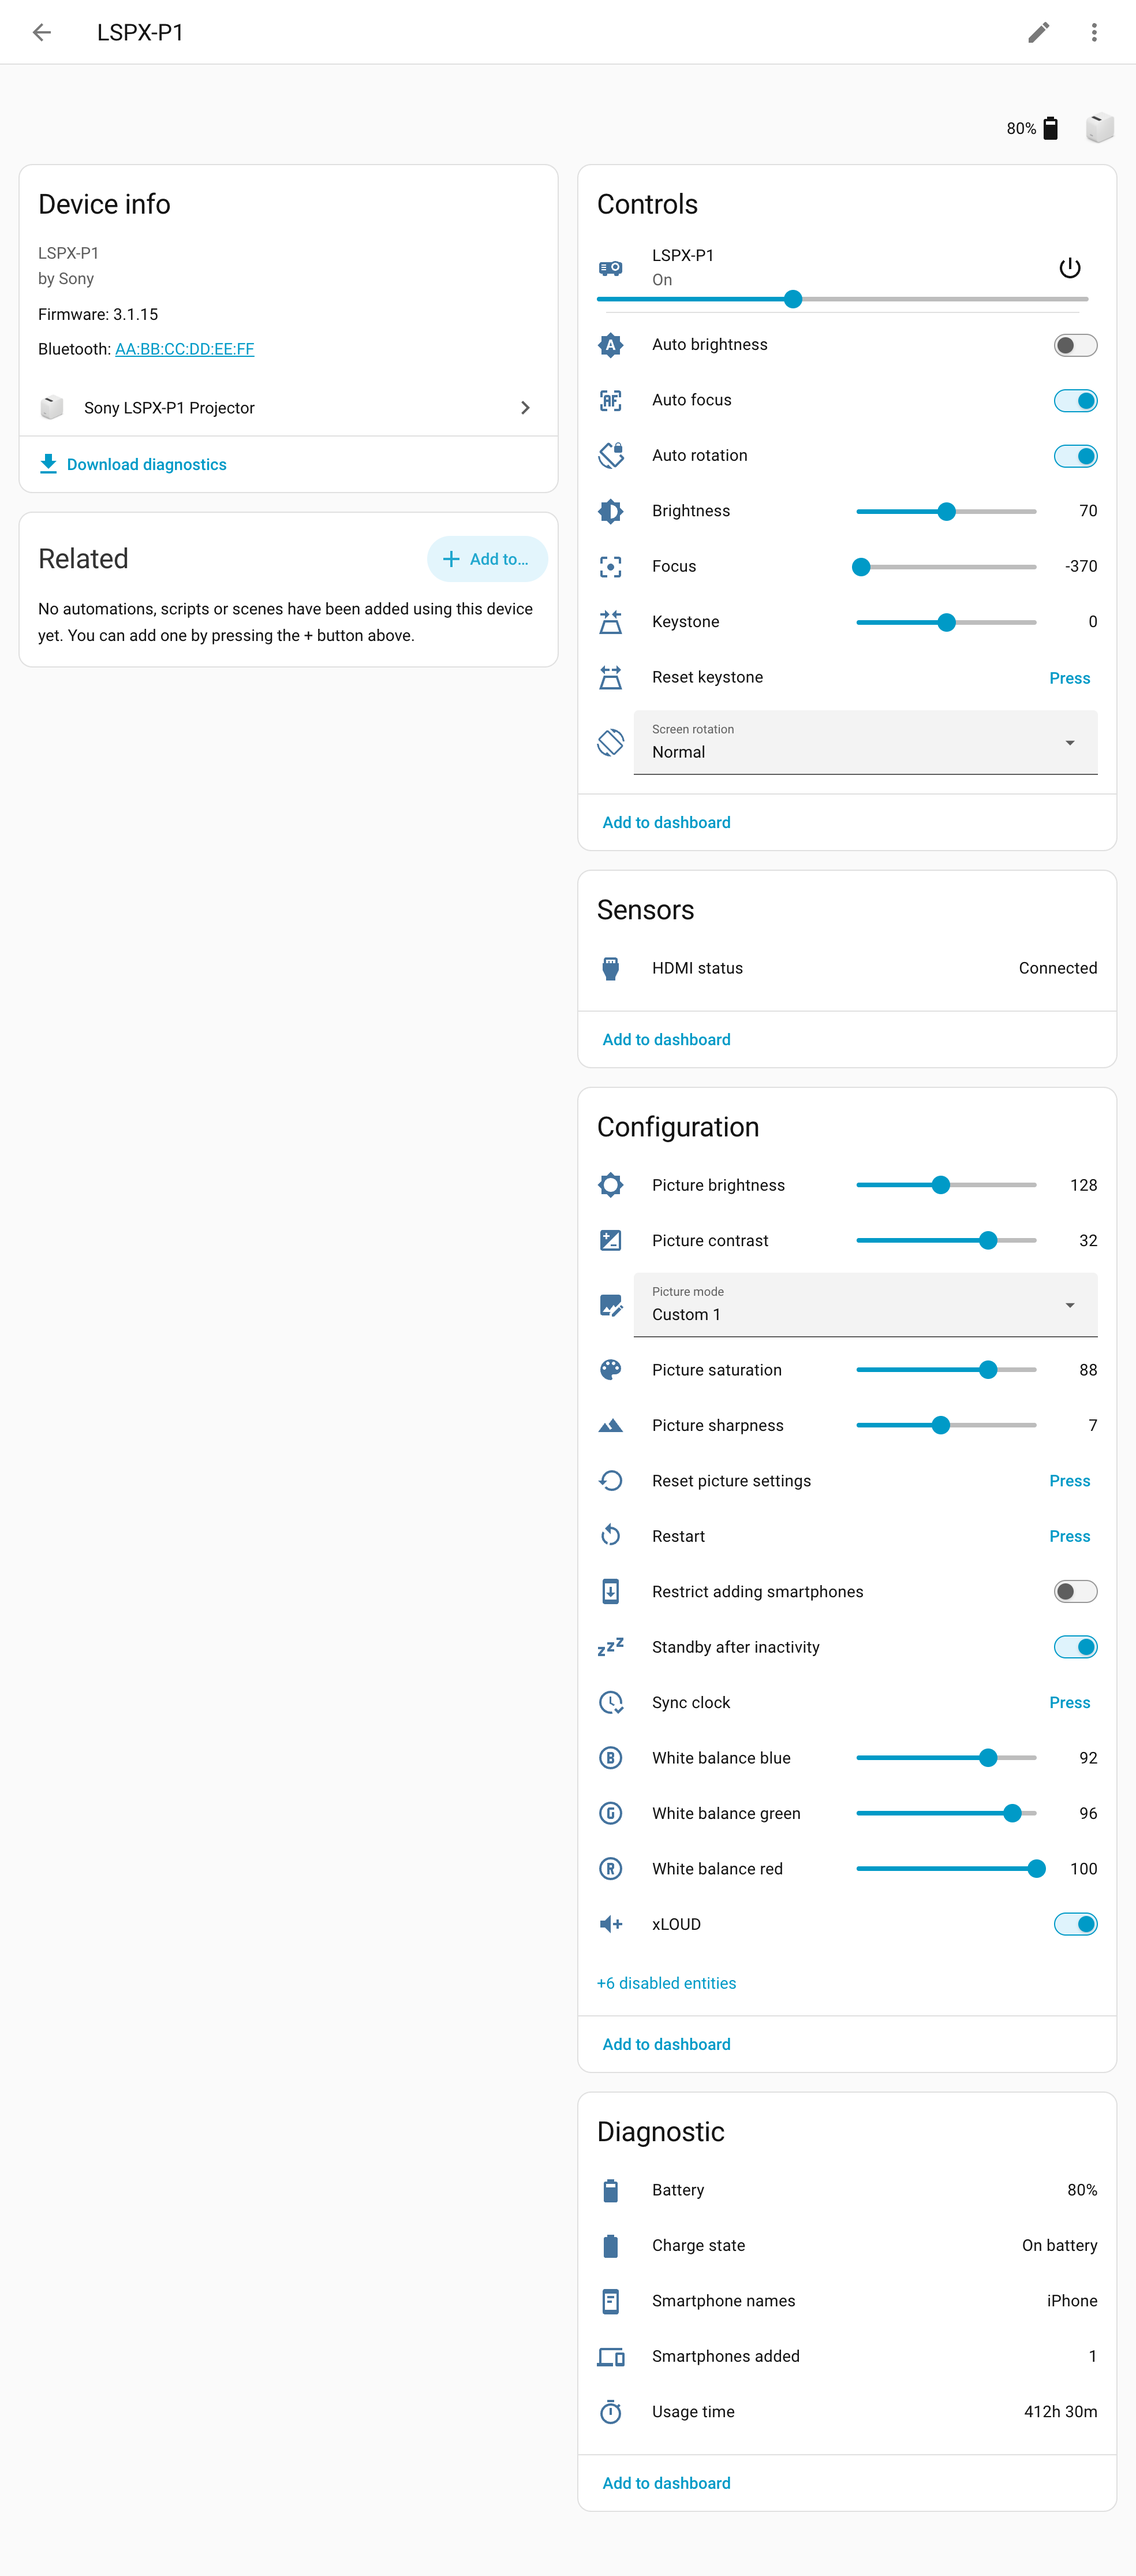
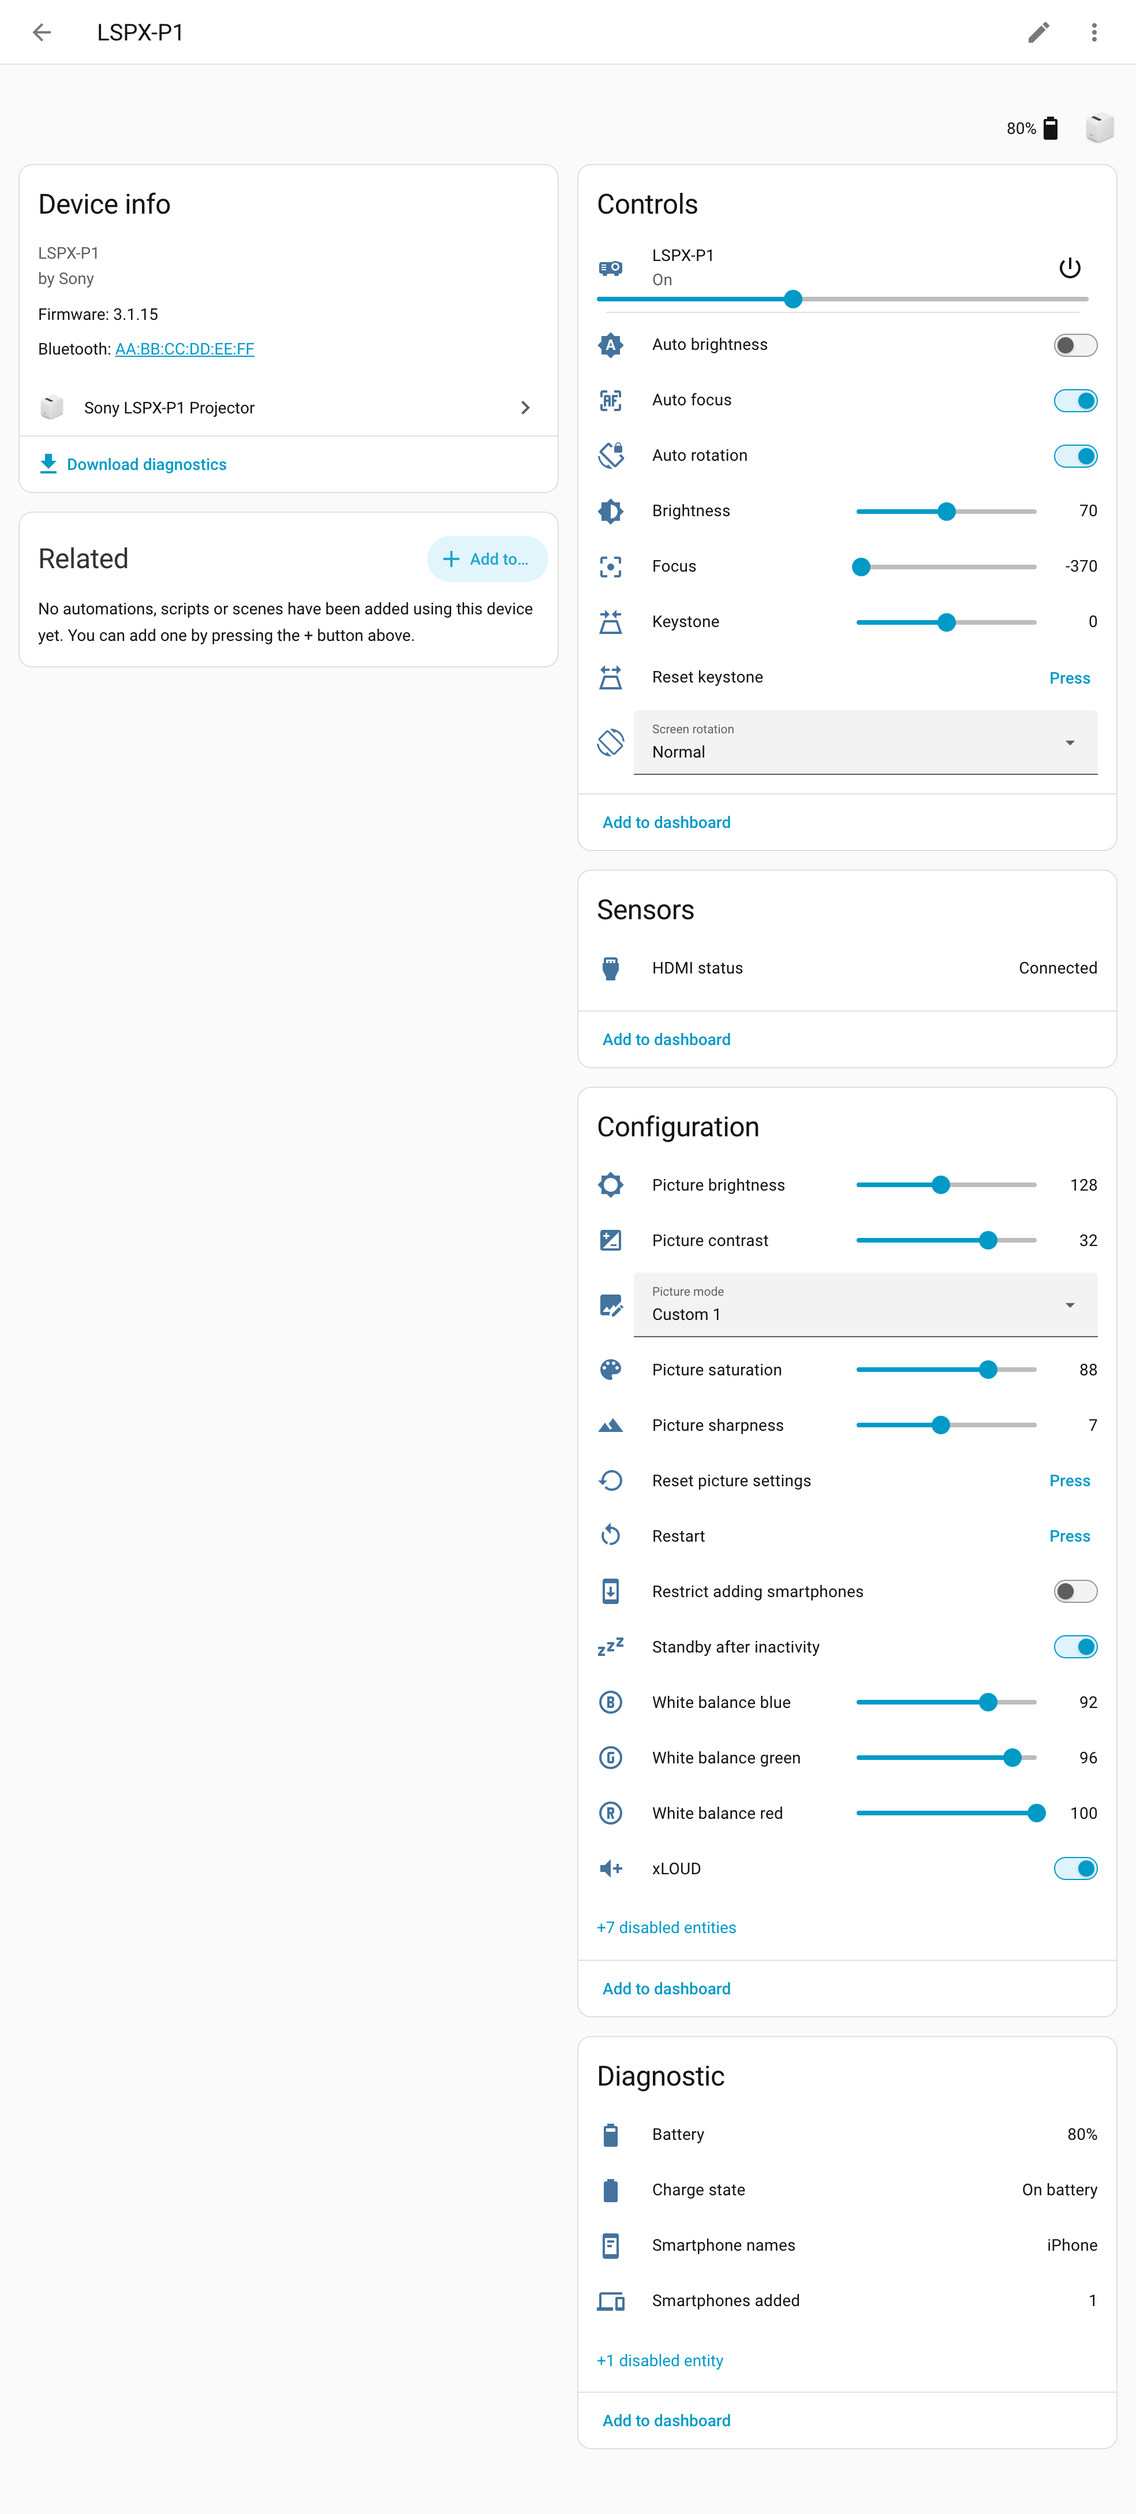
Disable Usage time and Sync clock by default

diff --git a/tests/test_init.py b/tests/test_init.py
@@ -3,6 +3,7 @@
 from __future__ import annotations
 
 import asyncio
+from collections.abc import Generator
 from datetime import timedelta
 from unittest.mock import patch
 
@@ -26,6 +27,7 @@ from custom_components.sony_lspx_p1.client import make_ble_device
 from custom_components.sony_lspx_p1.const import DOMAIN
 from custom_components.sony_lspx_p1.coordinator import STUCK_POLLS_BEFORE_ISSUE
 from custom_components.sony_lspx_p1.protocol import BondOp, ErrorCode, Op
+from custom_components.sony_lspx_p1.sensor import LSPXSensor
 
 from .conftest import ADDRESS, make_service_info
 from .fake_projector import FakeBleakClient, FakeProjector
@@ -33,6 +35,14 @@ from .fake_projector import FakeBleakClient, FakeProjector
 pytestmark = pytest.mark.usefixtures("mock_bluetooth", "mock_ble_lookup", "fake_connection")
 
 MP = "media_player.lspx_p1_1a2b"
+USAGE = "sensor.lspx_p1_1a2b_usage_time"
+
+
+@pytest.fixture
+def usage_enabled() -> Generator[None]:
+    """Usage time enabled, as a user would do on the device page (the other sensors are enabled anyway)."""
+    with patch.object(LSPXSensor, "_attr_entity_registry_enabled_default", True, create=True):
+        yield
 
 
 @pytest.fixture
@@ -114,12 +124,11 @@ async def test_sources(hass: HomeAssistant, loaded: MockConfigEntry, projector: 
         )
 
 
-async def test_hdmi_status_usage_time_and_inactivity(
+async def test_hdmi_status_and_inactivity(
     hass: HomeAssistant, loaded: MockConfigEntry, projector: FakeProjector
 ) -> None:
     hdmi = "sensor.lspx_p1_1a2b_hdmi_status"
     assert hass.states.get(hdmi).state == "connected"
-    assert hass.states.get("sensor.lspx_p1_1a2b_usage_time").state == "412.5"
     projector.hdmi = [1, 2]
     await loaded.runtime_data.async_refresh()
     assert hass.states.get(hdmi).state == "no_signal"
@@ -207,22 +216,30 @@ async def test_switches(hass: HomeAssistant, loaded: MockConfigEntry, projector:
     assert projector.xloud == 0
 
 
+async def test_usage_time_disabled_by_default(hass: HomeAssistant, loaded: MockConfigEntry) -> None:
+    entry = er.async_get(hass).async_get(USAGE)
+    assert entry is not None
+    assert entry.disabled_by is er.RegistryEntryDisabler.INTEGRATION
+    assert hass.states.get(USAGE) is None
+
+
+@pytest.mark.usefixtures("usage_enabled")
 async def test_usage_time_changes_every_6_minutes(
     hass: HomeAssistant, loaded: MockConfigEntry, projector: FakeProjector, hass_client
 ) -> None:
-    usage = "sensor.lspx_p1_1a2b_usage_time"
-    before = hass.states.get(usage)
+    before = hass.states.get(USAGE)
+    assert before.state == "412.5"
     projector.usage = (412, 32, 0)
     await loaded.runtime_data.async_refresh()
     await hass.async_block_till_done()
     # The poll's data changed, the rounded state did not: nothing new is written for the recorder.
     assert loaded.runtime_data.data.usage_hours == 412.53
-    assert hass.states.get(usage).last_updated == before.last_updated
-    assert hass.states.get(usage).state == "412.5"
+    assert hass.states.get(USAGE).last_updated == before.last_updated
+    assert hass.states.get(USAGE).state == "412.5"
     projector.usage = (412, 34, 0)
     await loaded.runtime_data.async_refresh()
     await hass.async_block_till_done()
-    assert hass.states.get(usage).state == "412.6"
+    assert hass.states.get(USAGE).state == "412.6"
     # Diagnostics keep the decoded value.
     diagnostics = await get_diagnostics_for_config_entry(hass, hass_client, loaded)
     assert diagnostics["state"]["usage_hours"] == 412.57

diff --git a/tests/test_clock.py b/tests/test_clock.py
@@ -24,6 +24,7 @@ from pytest_homeassistant_custom_component.components.diagnostics import get_dia
 from pytest_homeassistant_custom_component.test_util.aiohttp import AiohttpClientMocker, AiohttpClientMockResponse
 
 from custom_components.sony_lspx_p1 import clock, web_api
+from custom_components.sony_lspx_p1.button import LSPXButton
 from custom_components.sony_lspx_p1.protocol import ErrorCode, Op
 
 from .fake_projector import FakeProjector
@@ -94,6 +95,14 @@ async def berlin(hass: HomeAssistant, frozen: Clock) -> Clock:
 
 
 type Start = Callable[[], Awaitable[MockConfigEntry]]
+
+ENABLED_DEFAULT = "_attr_entity_registry_enabled_default"
+
+
+@pytest.fixture(autouse=True)
+def sync_button_enabled(monkeypatch: pytest.MonkeyPatch) -> None:
+    """The Sync clock button enabled, as a user would do on the device page (the other buttons are enabled anyway)."""
+    monkeypatch.setattr(LSPXButton, ENABLED_DEFAULT, True, raising=False)
 
 
 @pytest.fixture
@@ -396,6 +405,25 @@ async def test_http_request_holds_no_lock(
     await start()
     assert seen == [0]
     assert diagnostics(config_entry)["last_error"] is None
+
+
+async def test_sync_clock_button_disabled_by_default_and_syncs_still_run(
+    hass: HomeAssistant,
+    projector: FakeProjector,
+    monkeypatch: pytest.MonkeyPatch,
+    *,
+    aioclient_mock: AiohttpClientMocker,
+    start: Start,
+) -> None:
+    monkeypatch.delattr(LSPXButton, ENABLED_DEFAULT)  # the integration's own default
+    on_wifi(projector)
+    aioclient_mock.post(URL, json=REPLY)
+    await start()
+    entry = er.async_get(hass).async_get(SYNC)
+    assert entry is not None
+    assert entry.disabled_by is er.RegistryEntryDisabler.INTEGRATION
+    assert hass.states.get(SYNC) is None
+    assert len(posts(aioclient_mock)) == 1  # the clock is set automatically all the same
 
 
 async def test_sync_clock_button(

diff --git a/custom_components/sony_lspx_p1/sensor.py b/custom_components/sony_lspx_p1/sensor.py
@@ -84,8 +84,9 @@ SENSORS: tuple[LSPXSensorDescription, ...] = (
         state_attr="hdmi_status",
         value_fn=_hdmi_state,
     ),
-    # How long the projector has been on in total. Rounded to 0.1 h (6 minutes), so the state does not change (and is
-    # not recorded) on every poll while the projector is on; diagnostics keep the decoded value (to 0.01 h).
+    # How long the projector has been on in total. Disabled by default: of interest to few. Rounded to 0.1 h
+    # (6 minutes), so where it is enabled the state does not change (and is not recorded) on every poll while the
+    # projector is on; diagnostics keep the decoded value (to 0.01 h).
     LSPXSensorDescription(
         key="usage_time",
         translation_key="usage_time",
@@ -94,6 +95,7 @@ SENSORS: tuple[LSPXSensorDescription, ...] = (
         native_unit_of_measurement=UnitOfTime.HOURS,
         suggested_display_precision=1,
         entity_category=EntityCategory.DIAGNOSTIC,
+        entity_registry_enabled_default=False,
         state_attr="usage_hours",
         value_fn=lambda s: round(s.usage_hours, 1) if s.usage_hours is not None else None,
     ),

diff --git a/custom_components/sony_lspx_p1/button.py b/custom_components/sony_lspx_p1/button.py
@@ -69,11 +69,13 @@ BUTTONS: tuple[LSPXButtonDescription, ...] = (
         press_fn=LSPXCoordinator.async_reboot,
         always_available=True,
     ),
-    # Sets the clock over the projector's Wi-Fi (experimental): what happens automatically, but now.
+    # Sets the clock over the projector's Wi-Fi (experimental): what happens automatically, but now. Disabled by
+    # default like everything else that needs the projector on Wi-Fi; the automatic syncs run either way.
     LSPXButtonDescription(
         key="sync_clock",
         translation_key="sync_clock",
         entity_category=EntityCategory.CONFIG,
+        entity_registry_enabled_default=False,
         press_fn=_sync_clock,
     ),
 )

diff --git a/README.md b/README.md
@@ -15,7 +15,7 @@ Control the [Sony LSPX-P1 portable ultra short throw projector](https://helpguid
   </tr>
 </table>
 
-The entities:
+The entities (Sync clock, Usage time and the settings over Wi-Fi are disabled by default: to use one, open the projector's device page, find it under "+N disabled entities" in its section, open its settings and switch **Enabled** on):
 
 | Entity | What it does |
 | --- | --- |
@@ -29,12 +29,12 @@ The entities:
 | Picture saturation, brightness, contrast, sharpness, white balance (R, G, B) | Tuning for the Custom picture modes (unavailable in Preset modes) |
 | Reset keystone, Reset picture settings | The app's Reset buttons |
 | Restart | Restarts the projector. Experimental: taken from the official app's code and not yet tried on a projector. It stays pressable while the projector does not answer. |
-| Sync clock | Sets the projector's clock now, over Wi-Fi. Experimental, see [Clock](#clock). |
+| Sync clock | Sets the projector's clock now, over Wi-Fi. Disabled by default and experimental, see [Clock](#clock). |
 | Switch on at a set time, Standby at a set time, Switch-on time, Standby time, Initial mode, Slideshow interval | The app's daily timers, what the projector shows when it is switched on, and how long each slideshow photo stays up. Disabled by default, over Wi-Fi and experimental, see [Settings over Wi-Fi](#settings-over-wi-fi). |
 | xLOUD | Sony's loudness enhancement |
 | Battery, Charge state | Battery level and whether it is charging |
 | HDMI status | The wireless HDMI unit: off (not set up), disconnected, source unplugged, no signal, connecting, connected, changing resolution or source, updating |
-| Usage time | How many hours the projector has been on in total, to 0.1 h (6 minutes) |
+| Usage time | How many hours the projector has been on in total, to 0.1 h (6 minutes). Disabled by default. |
 | Standby after inactivity | The app's "Switch to Networked Standby after inactivity": the screen goes off after a while in the dark without interaction |
 | Restrict adding smartphones | The app's setting of the same name: when on, a new phone has to enter a PIN shown by the projector. Phones already added and Home Assistant keep working. |
 | Smartphones added, Smartphone names | How many controllers are registered (Home Assistant included), and their names as one comma-separated text. The count's attributes also list the names, any blocked ones separately, and each entry's ID (`smartphone_ids`) for [removing or blocking smartphones](#removing-or-blocking-smartphones). |
@@ -122,7 +122,7 @@ The clock posters (Clock 1–4) show the projector's own clock, which only the s
 
 - when it sees a clock poster appear (chosen in Home Assistant, the app or on the projector, or shown when it switches on),
 - once a day, and on the first poll after Home Assistant's UTC offset changes (daylight saving, or another time zone in Home Assistant's settings),
-- and whenever you press **Sync clock** (on the device page, under Configuration).
+- and whenever you press **Sync clock** (on the device page, under Configuration). The button is disabled by default, like everything else that needs the projector on Wi-Fi; enable it there under "+N disabled entities". The automatic updates above run whether it is enabled or not.
 
 Only while the projector is on, with Wi-Fi Direct off (the app's setting) and not showing HDMI. Home Assistant asks the projector over Bluetooth for its address on the network and sends the time there over HTTP (port 80), so Home Assistant has to be able to reach the projector's network. With Wi-Fi Direct on, the projector's Wi-Fi is its own network, which Home Assistant is not on, so nothing is sent; nor to any address in `192.168.8.x`, which the app takes for that network (`192.168.8.1` is also the default address of some home routers, such as GL.iNet's). So if your home network itself uses `192.168.8.x` (as GL.iNet routers do by default), the clock and the settings over Wi-Fi do not work. This is taken from the app and not yet seen on a projector. If the projector is not on your home Wi-Fi, the automatic updates quietly do nothing (they try again later), and **Sync clock** says why. Diagnostics (on the device page) show the projector's address, the last time sent and the last error.
 

diff --git a/AGENTS.md b/AGENTS.md
@@ -17,6 +17,7 @@ Home Assistant integration for the Sony LSPX-P1 projector over Bluetooth LE, plu
 - **Minimum Home Assistant** (`hacs.json`, stated in the README too): CI's `test-minimum` job runs the tests on that release with its `package_constraints.txt`, reading the version from `hacs.json` (raise its Python when needed). Until 2025.8 it ships bleak 0.22, whose `BLEDevice` also requires `rssi`: build one with `client.make_ble_device`.
 - **Typing:** recent Home Assistant types form and service schemas as `probatio.Schema`; pass voluptuous schemas with a commented `type: ignore[arg-type]` (see `config_flow.py`) so older versions keep working.
 - **Tests and time:** freezegun's `freezer` freezes the event loop's clock too, so the fake projector's replies hang; patch the module's `dt_util` instead (see `tests/test_clock.py`). `async_fire_time_changed` also fires the client's own timers (idle disconnect), so advancing time drops the fake link.
-- **Entities disabled by default** (the settings over Wi-Fi): there is no fixture to enable them in tests; patch `LSPXWebEntity._attr_entity_registry_enabled_default` (see `tests/test_web_settings.py`).
+- **Bluetooth first; Wi-Fi is opt-in.** Bluetooth is how the integration works by default. Most projectors are never on Wi-Fi (hard to set up from the app), so an entity that needs the projector on Wi-Fi is disabled by default (the settings over Wi-Fi, Sync clock).
+- **Entities disabled by default** (those over Wi-Fi, Usage time): there is no fixture to enable them in tests; patch `LSPXWebEntity._attr_entity_registry_enabled_default` (see `tests/test_web_settings.py`), or the same attribute of `LSPXSensor` or `LSPXButton` with `create=True` for a description's `entity_registry_enabled_default=False` (see `usage_enabled` in `tests/test_init.py`, `sync_button_enabled` in `tests/test_clock.py`).
 - **Git:** unless you were given a branch or worktree, commit straight to `main`; end messages with the `Co-Authored-By` trailer; release with the release skill.
 - **Never commit** anything from the official app (APK, decompiled code); it lives in `.notes/`, which is excluded in the main checkout's `.git/info/exclude` (not `.gitignore`).
